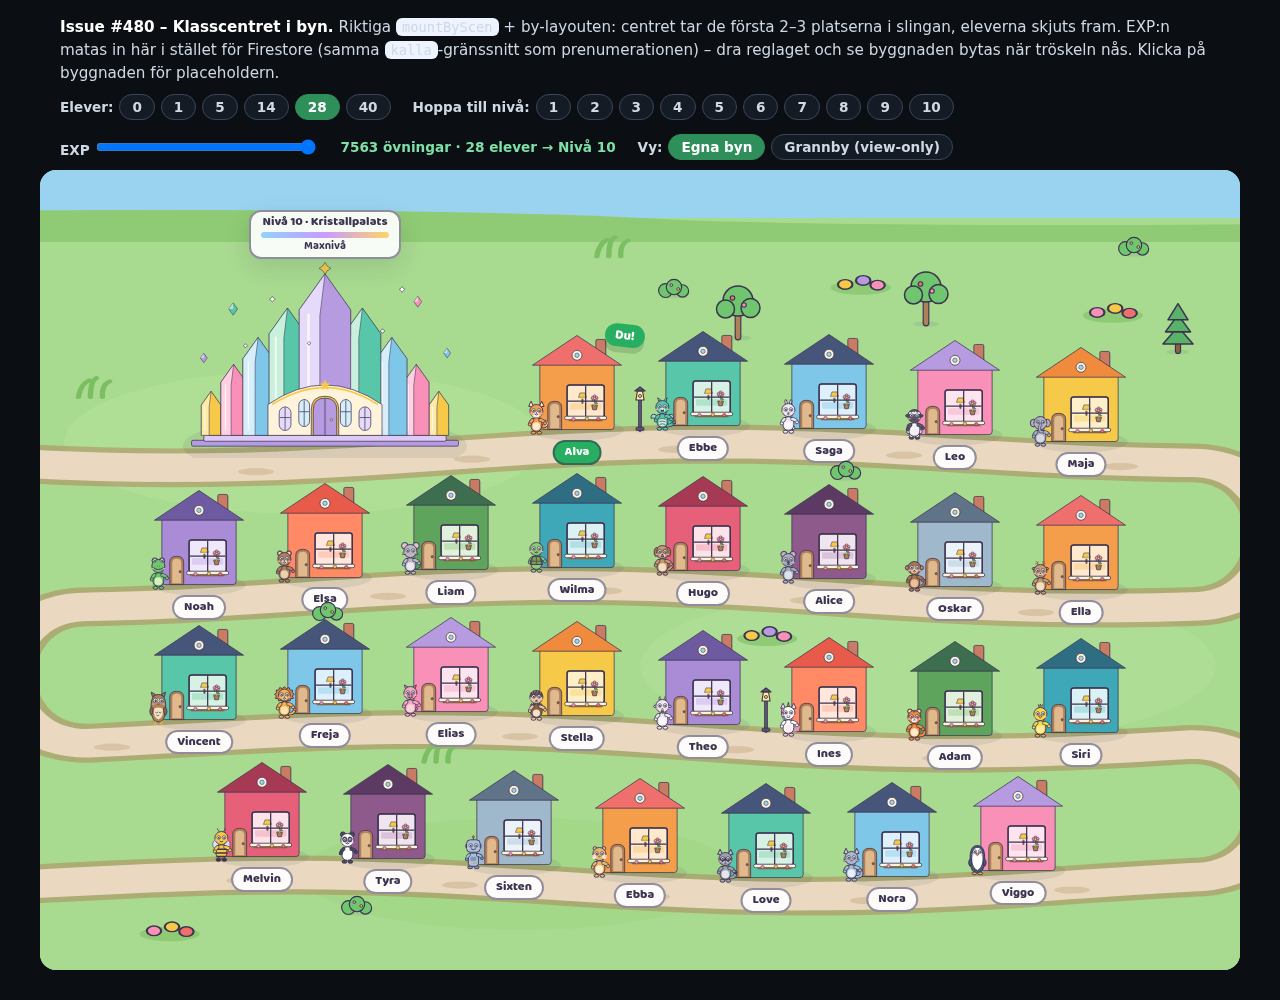
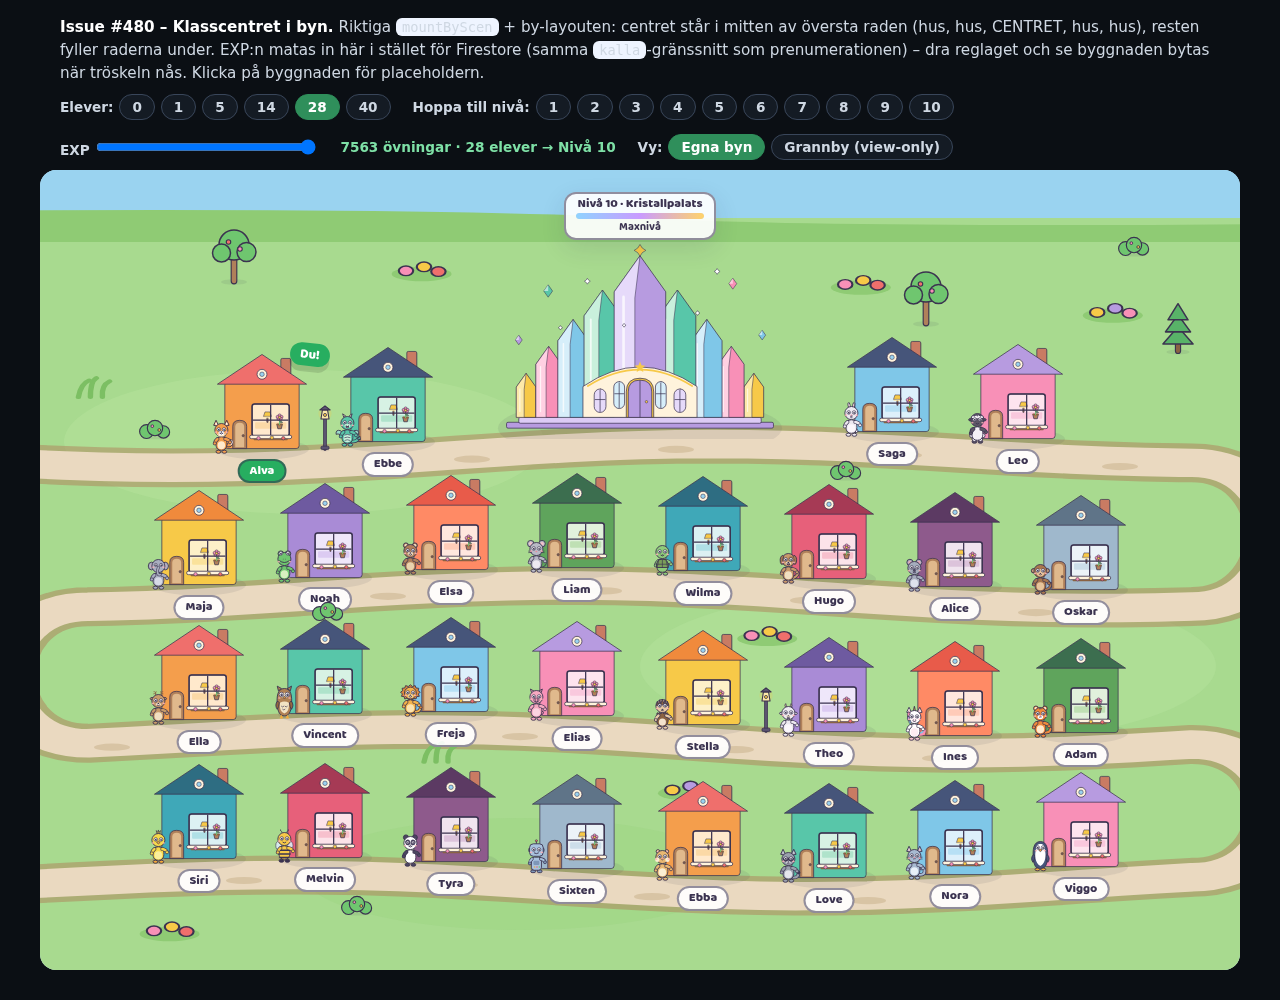
issue #480: Klasscentret i MITTEN av översta raden (hus, hus, CENTRET, hus, hus), resten fyller raderna under
- varld-by.js: klasscenterRad0 (≤2 hus/sida, udda extra till vänster), centret x=50, husPerRad höjs så översta raden ryms; ingen lykta i centret
- tester 0/1/2/3/4/5/14/23/28/40 elever: centret i mitten, 2+2 hus från 4 elever, slingans ordning, inga överlapp
- nya skärmdumpar 5/14/28 (preview) + 14 (app mot emulatorn)

diff --git a/src/varld-by.js b/src/varld-by.js
@@ -35,6 +35,21 @@ export function klasscenterSpan(antalHus) {
   return antalHus >= 8 ? 3 : 2;
 }
 
+/** Max elevhus på VARJE sida om Klasscentret i översta raden (Elias 2026-10-07). */
+export const KC_HUS_PER_SIDA = 2;
+
+/**
+ * Översta radens fördelning runt Klasscentret: hus, hus, CENTRET, hus, hus.
+ * Färre än 4 elever fördelas så jämnt det går – udda extra hus till vänster
+ * (1 → ett hus till vänster, 3 → 2 vänster + 1 höger).
+ * @returns {{vanster:number, hoger:number, sida:number}} sida = platser per sida
+ */
+export function klasscenterRad0(antalHus) {
+  const k = Math.min(KC_HUS_PER_SIDA * 2, Math.max(0, antalHus));
+  const vanster = Math.ceil(k / 2);
+  return { vanster, hoger: k - vanster, sida: vanster };
+}
+
 /** Extra höjd ovanför första raden (× radHojd) när byn har ett Klasscenter. */
 const KC_EXTRA = 0.9;
 
@@ -45,10 +60,11 @@ const KC_EXTRA = 0.9;
  * och radhöjd/väghöjd krymper så alla rader ryms i lagret. Små byar centreras
  * vertikalt via toppY i stället för att klänga i överkanten.
  *
- * Med `klasscenter: true` (#480) räknas byn i PLATSER: Klasscentret tar de
- * första klasscenterSpan() platserna i slingan och eleverna fyller resten, så
- * ingen elev försvinner – de skjuts bara fram. Första raden får dessutom extra
- * höjd ovanför (kcExtra) så den högre byggnaden + mätaren ryms under himlen.
+ * Med `klasscenter: true` (#480) står Klasscentret i MITTEN av översta raden
+ * (klasscenterSpan() platser breda) med upp till 2 elevhus på varje sida
+ * (klasscenterRad0); resten av eleverna fyller raderna under som vanligt, så
+ * ingen elev försvinner. husPerRad höjs vid behov så översta raden ryms, och
+ * första raden får extra höjd ovanför (kcExtra) för byggnaden + mätaren.
  *
  * @param {number} antalHus
  * @param {{klasscenter?: boolean}} [o]
@@ -59,8 +75,14 @@ export function byParams(antalHus, { klasscenter = false } = {}) {
   const kcSpan = klasscenter ? klasscenterSpan(Math.max(0, antalHus)) : 0;
   const antal = klasscenter ? Math.max(0, antalHus) : Math.max(1, antalHus);
   const platser = antal + kcSpan;
-  const husPerRad = Math.min(8, Math.max(3, Math.ceil(Math.sqrt(platser * 1.9))));
-  const rader = Math.ceil(platser / husPerRad);
+  let husPerRad = Math.min(8, Math.max(3, Math.ceil(Math.sqrt(platser * 1.9))));
+  let rader = Math.ceil(platser / husPerRad);
+  if (kcSpan) {
+    // Översta raden: sida + centret + sida (max 2 + 3 + 2 = 7 ≤ 8).
+    const { vanster, hoger, sida } = klasscenterRad0(antal);
+    husPerRad = Math.max(husPerRad, sida * 2 + kcSpan);
+    rader = 1 + Math.ceil((antal - vanster - hoger) / husPerRad);
+  }
   // Vertikalt utrymme 8–92 % delas på raderna; stora hus (radHojd) kapas vid
   // 26 % så en enda rad inte blir jättehus, och resten centreras.
   // Klasscentrets extrahöjd (KC_EXTRA × radHojd ≈ 0,72 cell) räknas in i delningen.
@@ -86,7 +108,7 @@ export function byParams(antalHus, { klasscenter = false } = {}) {
  * @param {number} [o.margX]     marginal vänster/höger i % (default 8)
  * @param {number} [o.toppY]     var första radens tomter börjar i % (default 20)
  * @param {number} [o.radHojd]   tomthöjd per rad i % (default 26)
- * @param {number} [o.kcSpan]    Klasscentrets tomtplatser först i slingan (0 = inget)
+ * @param {number} [o.kcSpan]    Klasscentrets bredd i tomtplatser, mitt i översta raden (0 = inget)
  * @param {number} [o.kcExtra]   extra höjd ovanför första raden för centret (i %)
  * @returns {{
  *   tomter: Array<{x:number, y:number, skala:number, rad:number, kol:number}>,
@@ -106,7 +128,7 @@ export function byParams(antalHus, { klasscenter = false } = {}) {
  *   rekommenderade scale-faktorn för hus + avatar på by-nivån (1/BY_ZOOM).
  *   vagY(rad, x) ger vägens mittlinje-y vid x för radens vägsträcka – samma
  *   slingerkurva som tomternas y följer, så väg och dekor kan räknas exakt.
- *   klasscenter (#480): centrets ruta i % – x = mitten av dess platser, botten
+ *   klasscenter (#480): centrets ruta i % – x = 50 (mitt i översta raden), botten
  *   = samma marklinje som radens hus, hojd = radHojd + kcExtra·0,8 (resten av
  *   extrahöjden är luft för mätaren ovanför). tomter innehåller BARA elevhus,
  *   så tomter[i] ↔ elev i gäller fortfarande.
@@ -114,9 +136,14 @@ export function byParams(antalHus, { klasscenter = false } = {}) {
 export function byLayout({
   antalHus = 8, husPerRad = 4, vagHojd = 7, margX = 8, toppY = 20, radHojd = 26, kcSpan = 0, kcExtra = 0,
 } = {}) {
-  // Platser = Klasscentrets platser (först i slingan) + en per elevhus.
-  const platser = Math.max(0, antalHus) + kcSpan;
-  const rader = Math.max(1, Math.ceil(platser / husPerRad));
+  // Med Klasscentret: översta raden = vänster-hus, centret, höger-hus (centrerat);
+  // övriga elever fyller raderna under. Utan: antalHus platser rad för rad.
+  const antal = Math.max(0, antalHus);
+  const rad0 = kcSpan ? klasscenterRad0(antal) : null;
+  const iRad0 = rad0 ? rad0.vanster + rad0.hoger : 0;
+  const rader = kcSpan
+    ? 1 + Math.ceil((antal - iRad0) / husPerRad)
+    : Math.max(1, Math.ceil(antal / husPerRad));
 
   // Slingerkurvan: en mjuk dubbelsinus i y som både husrad och väg följer.
   // Amplituden hålls under halva vägbredds-marginalen mellan raderna så en
@@ -136,27 +163,37 @@ export function byLayout({
   const tomter = [];
   const vagar = [];
   let klasscenter = null;
+  const tomt = (x, rad, kol) => ({ x, y: basY(rad) + sling(x, rad), skala: 1 / BY_ZOOM, rad, kol });
+  if (rad0) {
+    // Översta raden: centret mitt i lagret, husen tätt intill på var sida.
+    // Slingans ordning (vänster→höger) = vänster-husen, centret, höger-husen.
+    const cx = 50;
+    const kant = (cellW * kcSpan) / 2;
+    for (let j = 0; j < rad0.vanster; j++) {
+      tomter.push(tomt(cx - kant - cellW * (rad0.vanster - j - 0.5), 0, j));
+    }
+    for (let j = 0; j < rad0.hoger; j++) {
+      tomter.push(tomt(cx + kant + cellW * (j + 0.5), 0, rad0.vanster + 1 + j));
+    }
+    const botten = basY(0) + sling(cx, 0) + radHojd / 2;
+    const hojd = radHojd + kcExtra * 0.8;
+    klasscenter = {
+      x: cx, y: botten - hojd / 2, bredd: cellW * kcSpan, hojd,
+      topp: botten - hojd, botten, span: kcSpan, rad: 0,
+    };
+  }
   for (let rad = 0; rad < rader; rad++) {
-    const paRad = Math.min(husPerRad, platser - rad * husPerRad);
+    if (rad0 && rad === 0) {
+      vagar.push({ rad, y: basY(rad) + radHojd * 0.55, hojd: vagHojd });
+      continue;
+    }
+    // Index bland de elever som fyller vanliga rader (efter översta raden).
+    const forst = rad0 ? iRad0 + (rad - 1) * husPerRad : rad * husPerRad;
+    const paRad = Math.min(husPerRad, antal - forst);
     for (let kol = 0; kol < paRad; kol++) {
       // Centrera ev. ofull sista rad; y följer vägens slinger vid tomtens x.
       const x = margX + cellW * (kol + 0.5) + (cellW * (husPerRad - paRad)) / 2;
-      const plats = rad * husPerRad + kol;
-      if (plats < kcSpan) {
-        // Klasscentret: platserna 0..kcSpan-1 (alltid i rad 0, husPerRad ≥ 3).
-        // Mittpunkten räknas när sista platsen nås.
-        if (plats === kcSpan - 1) {
-          const cx = x - (cellW * (kcSpan - 1)) / 2;
-          const botten = basY(rad) + sling(cx, rad) + radHojd / 2;
-          const hojd = radHojd + kcExtra * 0.8;
-          klasscenter = {
-            x: cx, y: botten - hojd / 2, bredd: cellW * kcSpan, hojd,
-            topp: botten - hojd, botten, span: kcSpan, rad,
-          };
-        }
-        continue;
-      }
-      tomter.push({ x, y: basY(rad) + sling(x, rad), skala: 1 / BY_ZOOM, rad, kol });
+      tomter.push(tomt(x, rad, kol));
     }
     // Vägsträckans bas-y (utan slinger) – mest för felsökning/kompatibilitet.
     vagar.push({ rad, y: basY(rad) + radHojd * 0.55, hojd: vagHojd });
@@ -343,6 +380,8 @@ export function byDekor(layout) {
     } else {
       x = Math.min(94, iRad[0].x + cellW * 0.8);
     }
+    // Gluggen mellan vänster- och höger-huset är Klasscentret – ingen lykta där.
+    if (kc && rad === kc.rad && Math.abs(x - kc.x) < kc.bredd / 2 + 2) continue;
     const lyktY = vagY(rad, x) - vagHojd * 0.42;
     uppst.push({ typ: "lykta", x, y: lyktY, s });
     ta(x, lyktY, 2.3 * s);

diff --git a/test/by-klasscenter.test.js b/test/by-klasscenter.test.js
@@ -9,12 +9,12 @@ import { readFileSync } from "node:fs";
 import { dirname, join, resolve } from "node:path";
 import { fileURLToPath } from "node:url";
 
-import { byParams, byLayout, byDekor, klasscenterSpan } from "../src/varld-by.js";
+import { byParams, byLayout, byDekor, klasscenterSpan, klasscenterRad0 } from "../src/varld-by.js";
 import { matarRad, matarMarkup, placeholderText } from "../src/klasscenter/kc-by.js";
 import { progressTillNasta, troskelFor } from "../src/klasscenter/kc-niva.js";
 
 const SRC = resolve(dirname(fileURLToPath(import.meta.url)), "..", "src");
-const STORLEKAR = [0, 1, 5, 14, 23, 28, 40];
+const STORLEKAR = [0, 1, 2, 3, 4, 5, 14, 23, 28, 40];
 const EPS = 1e-6;
 
 const tomtRuta = (t, l) => ({
@@ -25,19 +25,33 @@ const overlapp = (a, b) => a.v < b.h - EPS && b.v < a.h - EPS && a.o < b.u - EPS
 
 describe("byLayout med Klasscentret", () => {
   for (const n of STORLEKAR) {
-    it(`${n} elever: en tomt per elev, centret först, inga överlapp`, () => {
+    it(`${n} elever: en tomt per elev, centret mitt i översta raden, inga överlapp`, () => {
       const l = byLayout(byParams(n, { klasscenter: true }));
       const c = l.klasscenter;
       assert.equal(l.tomter.length, n, "antal elevtomter == antal elever");
       assert.ok(c, "centret finns");
       assert.equal(c.span, klasscenterSpan(n));
       assert.ok(c.span >= 2 && c.span <= 3);
-      assert.equal(c.rad, 0, "centret ligger i första raden");
+      assert.equal(c.rad, 0, "centret ligger i översta raden");
+      assert.equal(c.x, 50, "centret i mitten");
       assert.ok(Math.abs(c.bredd - c.span * l.cellW) < EPS, "tar span tomtbredder");
       assert.ok(c.hojd > l.radHojd, "högre än ett hus");
 
-      // Först i slingan: rad 0 går vänster→höger, alla rad-0-hus till höger.
-      for (const t of l.tomter.filter((t) => t.rad === 0)) assert.ok(t.x > c.x);
+      // Översta raden: hus, hus, CENTRET, hus, hus (färre → jämnt, udda till vänster).
+      const rad0 = l.tomter.filter((t) => t.rad === 0);
+      const vanster = rad0.filter((t) => t.x < c.x).length;
+      const hoger = rad0.filter((t) => t.x > c.x).length;
+      assert.equal(rad0.length, Math.min(4, n));
+      if (n >= 4) assert.deepEqual([vanster, hoger], [2, 2]);
+      else assert.deepEqual([vanster, hoger], [Math.ceil(n / 2), Math.floor(n / 2)]);
+      assert.deepEqual(klasscenterRad0(n), { vanster, hoger, sida: vanster });
+      // Slingans ordning: tomterna i översta raden först, vänster→höger, sedan raderna under.
+      l.tomter.slice(0, rad0.length).forEach((t, i) => assert.equal(t.rad, 0, `tomt ${i} i översta raden`));
+      for (let i = 1; i < rad0.length; i++) assert.ok(l.tomter[i].x > l.tomter[i - 1].x);
+      for (const t of l.tomter.slice(rad0.length)) assert.ok(t.rad >= 1);
+      // Husen står tätt intill centret (en halv tomt från kanten).
+      if (vanster) assert.ok(Math.abs(c.x - c.bredd / 2 - l.cellW / 2 - Math.max(...rad0.filter((t) => t.x < c.x).map((t) => t.x))) < EPS);
+      if (hoger) assert.ok(Math.abs(c.x + c.bredd / 2 + l.cellW / 2 - Math.min(...rad0.filter((t) => t.x > c.x).map((t) => t.x))) < EPS);
 
       const kc = kcRuta(c);
       l.tomter.forEach((t, i) => {
@@ -51,8 +65,10 @@ describe("byLayout med Klasscentret", () => {
       });
       assert.ok(kc.v >= 0 && kc.h <= 100 && kc.o >= 6 && kc.u <= 100, "centret inom lagret, under himlen");
 
-      // Centrets botten = radens marklinje (samma slinger som vägen vid x).
+      // Vägen passerar FRAMFÖR centret: centrets botten = radens marklinje, strax
+      // ovanför vägens mittlinje vid x (samma slinger).
       assert.ok(Math.abs(c.botten - (l.vagY(0, c.x) - l.radHojd * 0.05)) < 1e-6);
+      assert.ok(l.vagY(0, c.x) > c.botten);
 
       // Ingen uppstående dekor med markpunkt i centrets ruta (eller luften ovanför).
       const d = byDekor(l);
@@ -66,12 +82,17 @@ describe("byLayout med Klasscentret", () => {
     });
   }
 
-  it("platserna räknas: elevhus + centrets platser fyller raderna i ordning", () => {
-    const p = byParams(28, { klasscenter: true });
-    const l = byLayout(p);
-    const rad0 = l.tomter.filter((t) => t.rad === 0).length;
-    assert.equal(rad0, p.husPerRad - p.kcSpan);
-    assert.equal(l.rader, Math.ceil((28 + p.kcSpan) / p.husPerRad));
+  it("raderna under fylls som vanligt: husPerRad per rad, ofull sista rad", () => {
+    for (const n of [5, 14, 28, 40]) {
+      const p = byParams(n, { klasscenter: true });
+      const l = byLayout(p);
+      assert.ok(p.husPerRad >= 2 * 2 + p.kcSpan, "översta raden ryms");
+      assert.equal(l.rader, 1 + Math.ceil((n - 4) / p.husPerRad));
+      for (let rad = 1; rad < l.rader; rad++) {
+        const iRad = l.tomter.filter((t) => t.rad === rad).length;
+        assert.equal(iRad, rad < l.rader - 1 ? p.husPerRad : n - 4 - (l.rader - 2) * p.husPerRad);
+      }
+    }
   });
 
   it("utan klasscenter är byParams/byLayout oförändrade", () => {

diff --git a/src/varld-by-scen.js b/src/varld-by-scen.js
@@ -10,8 +10,9 @@
 // Modulen är ren rendering: klick-hantering (eget hus → zooma in, kamratens
 // hus → deras rum i läsläge) kopplas av pages-varld.js via .by-tomt[data-id].
 //
-// Klasscentret (#480, epic #476): med `klasscenter` tar byns hjärta de första
-// 2–3 platserna i slingan (varld-by.js) och ritas i en egen .by-klasscenter-
+// Klasscentret (#480, epic #476): med `klasscenter` står byns hjärta i mitten
+// av översta raden, 2–3 tomter brett med upp till 2 hus på var sida
+// (varld-by.js), och ritas i en vanlig .by-klasscenter-
 // ruta (INTE .by-tomt, så hus-klicken i pages-varld/grannbyn rör den inte).
 // Byggnad, mätare och klick fylls av klasscenter/kc-by.js som laddas
 // DYNAMISKT – den och art-klasscenter*.js hålls utanför bootgrafen (#271).

diff --git a/preview-klasscenter-by.html b/preview-klasscenter-by.html
@@ -31,7 +31,7 @@
   <body>
     <div class="pv-intro">
       <b>Issue #480 – Klasscentret i byn.</b> Riktiga <code>mountByScen</code> + by-layouten:
-      centret tar de första 2–3 platserna i slingan, eleverna skjuts fram. EXP:n matas in här
+      centret står i mitten av översta raden (hus, hus, CENTRET, hus, hus), resten fyller raderna under. EXP:n matas in här
       i stället för Firestore (samma <code>kalla</code>-gränssnitt som prenumerationen) – dra
       reglaget och se byggnaden bytas när tröskeln nås. Klicka på byggnaden för placeholdern.
     </div>
